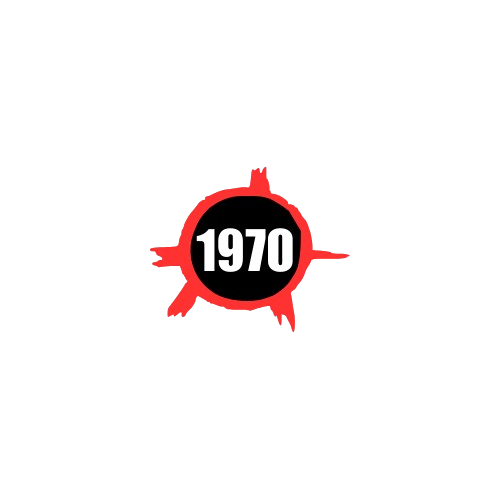
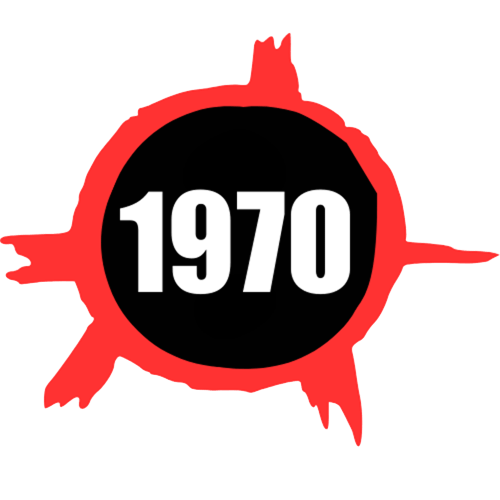
Versão 2 - Parte 2 (Timeline) / Timeline estilizada

diff --git a/assets/css/timeline.css b/assets/css/timeline.css
@@ -43,12 +43,14 @@
   top: 50%;
   left: 0;
   right: 0;
-  height: 8px;
+  height: 200px; /* altura do rabisco */
   transform: translateY(-50%);
-  background: url('../images/line-scribble.png') repeat-x;
-  background-size: contain;
-  opacity: 0.6;
-  z-index: -1; /* fica atrás dos círculos */
+  
+  background: url('../images/RabiscoVermelho.png') no-repeat center;
+  background-size: 90% 100%; /* estica a largura E altura */
+  
+  opacity: 0.9;
+  z-index: 0;
 }
 
 /* cada ponto (ano) */
@@ -98,7 +100,7 @@
 }
 
 .timeline-circle-img {
-  width: 150px;
+  width: 225px;
   height: auto;
   cursor: pointer;
   transition: transform 0.3s ease;
